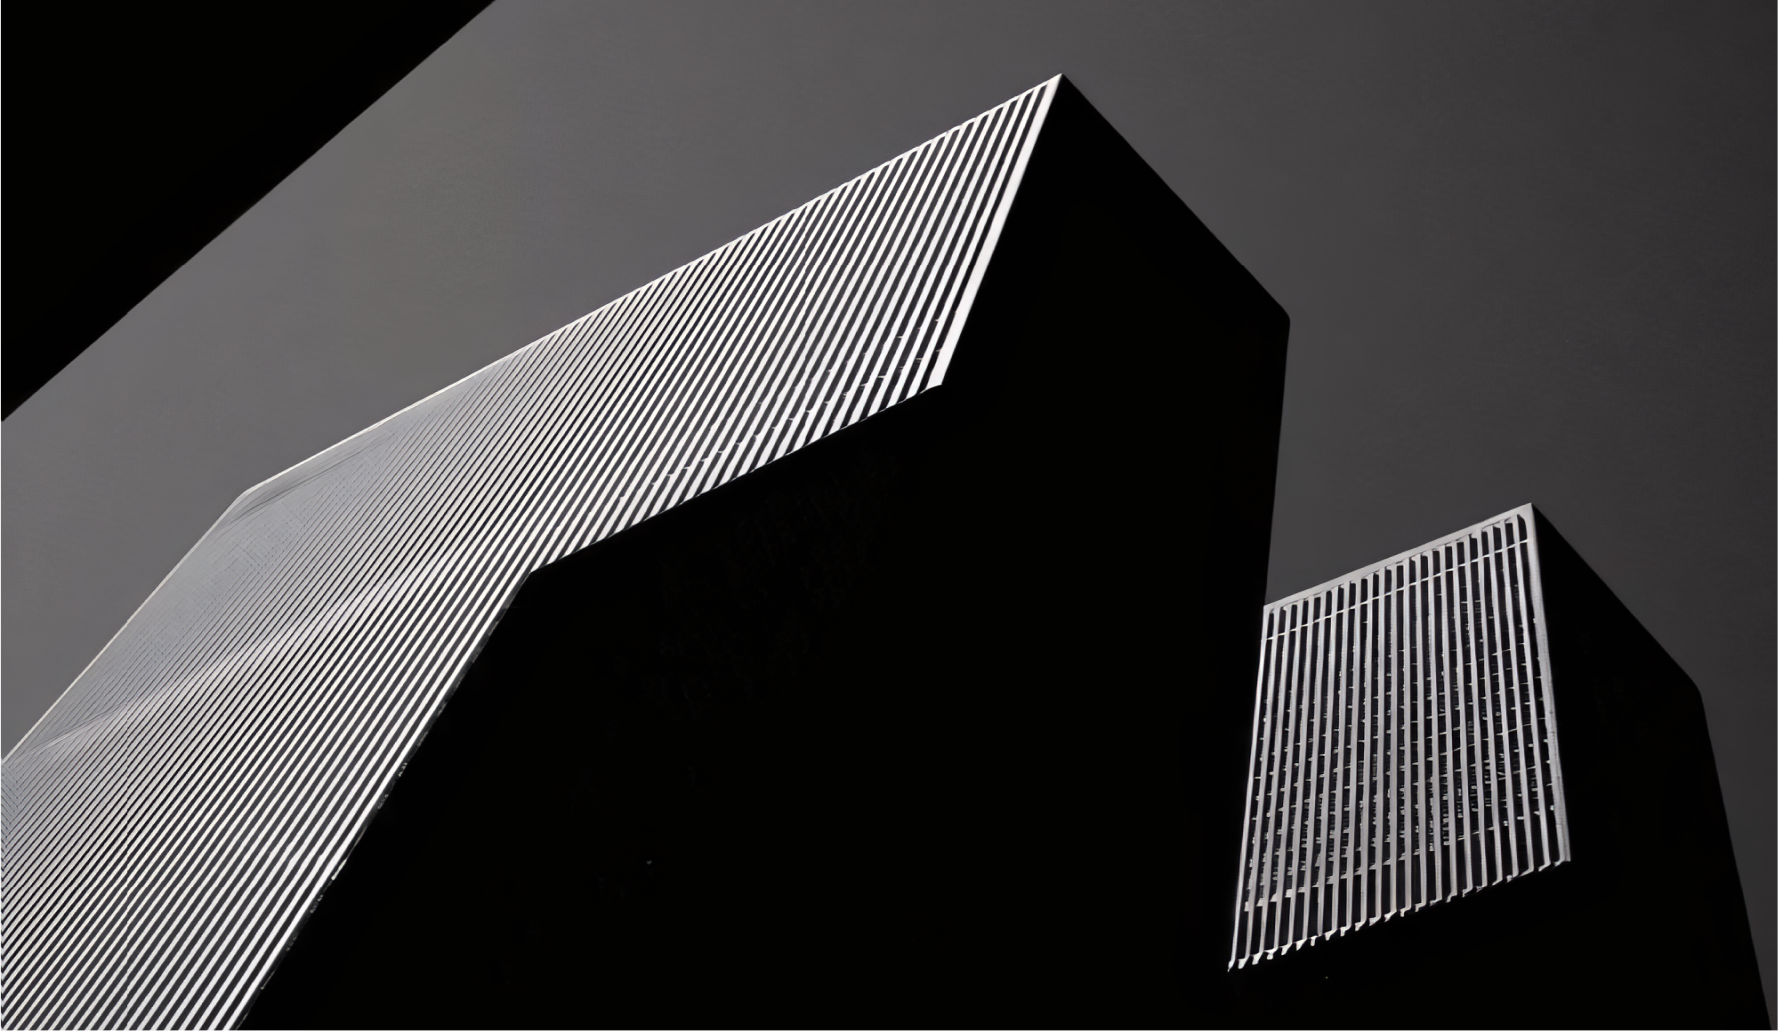
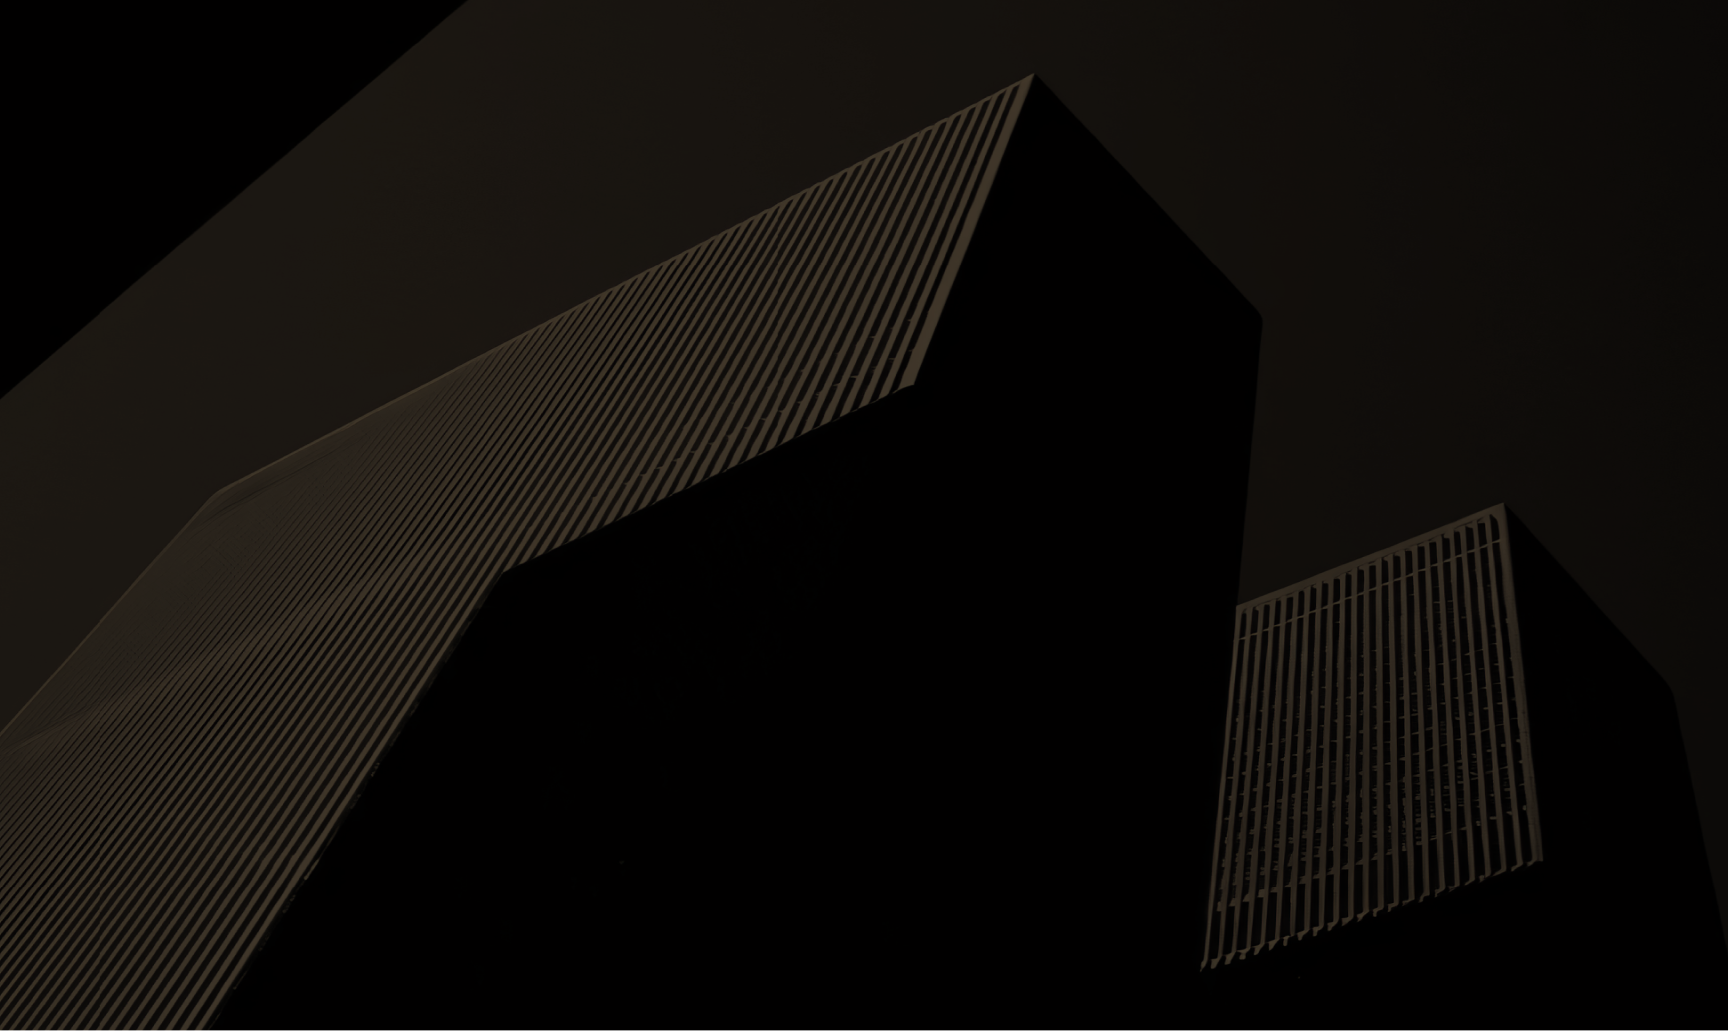
6-16

diff --git a/src/components/website/OurWork.tsx b/src/components/website/OurWork.tsx
@@ -11,6 +11,9 @@ import hajBg from "@/assets/hajbg.png";
 import auctionHammer from "@/assets/auctionHammer.png";
 import auctionHammerBg from "@/assets/auctionHammerbj.jpg";
 import Link from "next/link";
+import image2 from "@/assets/Rectangle2.png";
+import image3 from "@/assets/Rectangle3.png";
+
 type ServiceKey = keyof typeof servicesData;
 
 const servicesData = {
@@ -20,8 +23,9 @@ const servicesData = {
     bg: hajBg,
     content: {
       heading: "ادارة الاملاك",
-      description:
-        "هذا النص هو مثال لنص يمكن أن يستبدل في نفس المساحة، لقد تم توليد هذا النص من مولد النص العربى، حيث يمكنك أن تولد مثل هذا النص أو العديد من النصوص الأخرى إضافة إلى زيادة عدد الحروف التى يولدها التطبيق.",
+      description: `    خدمة إدارة الأملاك هي إحدى خدماتنا الأساسية التي نقدمها لتلبية احتياجات الملاك وضمان تحقيق 
+    أفضل عائد على استثماراتهم العقارية. تتمثل هذه الخدمة في إدارة جميع جوانب الملكية نيابة عن المالك، 
+    بدءًا من إدارة العقار وتشغيله إلى تحقيق أقصى استفادة منه.`,
     },
     path: "/",
   },
@@ -31,8 +35,8 @@ const servicesData = {
     bg: auctionHammerBg,
     content: {
       heading: "تنظيم المزادات",
-      description:
-        "هذا النص هو مثال لنص يمكن أن يستبدل في نفس المساحة، لقد تم توليد هذا النص من مولد النص العربى، حيث يمكنك أن تولد مثل هذا النص أو العديد من النصوص الأخرى إضافة إلى زيادة عدد الحروف التى يولدها التطبيق.",
+      description: `    تعتبــر الشــركة رائــدة فــي مجــال إقامــة وتنظيــم المــزادات العلنيــة والإلكترونيــة علــى مســتوى 
+    المملكـة، عبـر طاقم عمـل لديه خبرة كافيـة.`,
     },
     path: "/auction",
   },
@@ -43,7 +47,7 @@ const servicesData = {
     content: {
       heading: "إدارة وتشغيل الفنادق",
       description:
-        "هذا النص هو مثال لنص يمكن أن يستبدل في نفس المساحة، لقد تم توليد هذا النص من مولد النص العربى، حيث يمكنك أن تولد مثل هذا النص أو العديد من النصوص الأخرى إضافة إلى زيادة عدد الحروف التى يولدها التطبيق.",
+        " فـي إطـار مسـاعيها لتقديـم خدمـات بمعاييـر جـودة عالميـة فـي عالـم الضيافـة وببصمـة تبتكـر للضيـوف  تجربــة ممتعــة، دخلــت «كنــوز مكــة» مجــال إدارة وتشــغيل الفنــادق بثقــة واســتقطبت لذلــك مختصيــن  مهـرة متميزيـن بالخبـرات الأكاديميـة والعملية.",
     },
     path: "/",
   },
@@ -54,17 +58,16 @@ const servicesData = {
     content: {
       heading: "الاستثمار العقاري",
       description:
-        "هذا النص هو مثال لنص يمكن أن يستبدل في نفس المساحة، لقد تم توليد هذا النص من مولد النص العربى، حيث يمكنك أن تولد مثل هذا النص أو العديد من النصوص الأخرى إضافة إلى زيادة عدد الحروف التى يولدها التطبيق.",
+        " بمـا أن القطـاع العقـاري يلعـب دورًا مؤثـرًا فـي البنيـة الأساسـية لاقتصـاد المملكـة العربيـة السـعودية،  وحيــث أن الســاحة العقاريــة تشــهد نمــوا ديناميكيــا أدى لزيــادة الطلــب علــى التمويــل مــن البنــوك والشــركات الممــولة، تعمــل شــركة «كنــوز مكــة» عبــر إدارة متخصصــة فــي الاســتثمار العقــاري وفــق  منهجيـة تتسـم بالشـفافية والمسـؤولية، لتحقيـق قيمـة سـوقية حقيقيـة للعقـار تدعـم المسـتثمرين،  إســهامًا فــي نمــو اســتثماراتهم وتوســيع خياراتهــم وتوفــر لهــم حلــولا وفرصــا اســتثمارية بعائــد  مجــز وتحقيــق متطلباتهــم. وتســاهم الشــركة عبــر تلــك الحلــول فــي تحقيــق رؤيــة المملكــة ٢٠٣٠ بوضــع أساسيــات قطــاع عقــاري  مزدهــر ومدعــوم بمعاييــر جديــدة تواكــب التطــور العمرانــي الــذي تشــهده المملكـة.",
     },
     path: "/",
   },
 };
 
 const OurWork = () => {
-  const [activeContent, setActiveContent] = useState<{
-    heading: string;
-    description: string;
-  } | null>(null);
+  const [activeContent, setActiveContent] = useState(
+    servicesData.pilgrims.content
+  );
 
   const handleMouseEnter = (key: ServiceKey) => {
     setActiveContent(servicesData[key].content);
@@ -75,11 +78,12 @@ const OurWork = () => {
   // };
 
   return (
-    <section
-      style={{ backgroundImage: `url(${bg.src})` }}
-      className="relative bg-cover bg-center flex items-center py-[100px] md:py-20"
-    >
+    <section className="relative bg-cover bg-center flex items-center py-[130px] md:py-20 overflow-hidden">
+      <Image src={image2} alt="Image" className="absolute  left-0 z-10" />
+      <Image src={image3} alt="Image" className="absolute  right-0 z-10" />
+
       <div className="absolute inset-0 bg-[#D8BA8F] opacity-95"></div>
+
       <div className="container mx-auto px-4 relative z-10">
         <div className="grid grid-cols-1 md:grid-cols-2 lg:grid-cols-4 gap-4">
           {Object.entries(servicesData).map(([key, service]) => (
@@ -89,21 +93,39 @@ const OurWork = () => {
               onMouseEnter={() => handleMouseEnter(key as ServiceKey)}
               // onMouseLeave={handleMouseLeave}
               style={{
-                backgroundImage: `linear-gradient(rgba(244, 234, 213, 0.8), rgba(244, 234, 213, 0.8)), url(${service.bg.src})`,
+                backgroundImage: `linear-gradient(to right, ${
+                  activeContent.heading === service.content.heading
+                    ? "rgba(29, 27, 25, 1)"
+                    : "rgba(244, 234, 213, 0.8)"
+                }, ${
+                  activeContent.heading === service.content.heading
+                    ? "rgba(29, 27, 25, 0.7)"
+                    : "rgba(244, 234, 213, 0.8)"
+                }), url(${service.bg.src})`,
               }}
               className="p-6 rounded-lg transition-all duration-300 bg-cover bg-center hover:shadow-lg"
             >
-              <div className="flex flex-col items-center text-center space-y-4">
+              <div className="flex flex-col items-start text-center space-y-4">
                 <div className="w-16 h-16 relative">
                   <Image
                     src={service.image}
                     alt={service.title}
                     fill
                     sizes="(max-width: 768px) 100vw, (max-width: 1200px) 50vw, 33vw"
-                    className="object-contain"
+                    className={`object-contain ${
+                      activeContent.heading === service.content.heading
+                        ? "invert"
+                        : ""
+                    }`}
                   />
                 </div>
-                <h3 className="text-lg font-bold text-[#594830]">
+                <h3
+                  className={`text-lg font-bold text-[#594830] text-right ${
+                    activeContent.heading === service.content.heading
+                      ? "text-white"
+                      : ""
+                  }`}
+                >
                   {service.title}
                 </h3>
               </div>
@@ -124,7 +146,7 @@ const OurWork = () => {
                 <h3 className="text-2xl font-bold text-[#5A4B35]">
                   {activeContent.heading}
                 </h3>
-                <p className="text-[#342D23] text-lg font-bold">
+                <p className="text-[#342D23] text-base font-bold text-center">
                   {activeContent.description}
                 </p>
               </div>

diff --git a/src/components/website/OurVision.tsx b/src/components/website/OurVision.tsx
@@ -1,41 +1,44 @@
 import image2 from "@/assets/image2.png";
+import image3 from "@/assets/Rectangle.png";
+import Image from "next/image";
 
 const OurVision = () => {
   return (
     <section
       style={{ backgroundImage: `url(${image2.src})` }}
-      className="bg-[#F7F3EB] bg-contain bg-left bg-no-repeat"
+      className="bg-[#F5EBD7] bg-contain bg-left bg-no-repeat "
     >
-      <div className="container mx-auto py-20 px-4 md:px-0">
-        <div className="grid grid-cols-1 md:grid-cols-2 gap-4">
-          <div className="flex flex-col gap-2  items-center md:items-start">
-            <h2 className="font-bold text-2xl">رؤيتنـــــا</h2>
-            <p className="font-normal text-lg text-center">
-              أن نحقق أعلى مستويات النجاح والتميز، وأن نكـــــــــون
-              مثــــــــــــــــــــــالاً يحتذى به في مجال تخصصنا
-            </p>
-          </div>
+      <Image src={image3} alt="Image" className="absolute  left-0" />
+      <div className="max-w-5xl mx-auto">
+        <div className="container mx-auto pt-20 pb-10 px-4 md:px-0">
+          <div className="grid grid-cols-1 md:grid-cols-2 gap-24 px-16">
+            <div className="flex flex-col gap-2  items-center md:items-start">
+              <h2 className="font-bold text-2xl">رؤيتنـــــا</h2>
+              <p className="font-normal text-lg text-center md:text-right">
+                أن نحقق أعلى مستويات النجاح والتميز، وأن نكـــــــــون
+                مثــــــــــــــــــــــالاً يحتذى به في مجال تخصصنا
+              </p>
+            </div>
 
-          <div className="flex flex-col gap-2 justify-center items-center md:items-start">
-            <h2 className="font-bold text-2xl">رسالتنا</h2>
-            <p className="font-normal text-lg text-center md:text-right">
-              استثمار تقنياتنا الحديثة وكفاءات ومهارات كوادرنا البشرية لتقديم
-              حلول تناسب جميع المستويات وترتقي لتطلعات العملاء
-            </p>
+            <div className="flex flex-col gap-2 justify-center items-center md:items-start">
+              <h2 className="font-bold text-2xl">رسالتنا</h2>
+              <p className="font-normal text-lg text-center md:text-right">
+                استثمار تقنياتنا الحديثة وكفاءات ومهارات كوادرنا البشرية لتقديم
+                حلول تناسب جميع المستويات وترتقي لتطلعات العملاء
+              </p>
+            </div>
           </div>
         </div>
-      </div>
 
-      <div className="bg-[#D8BA8E] py-10">
-        <div className="container mx-auto py-10 px-4 md:px-0">
-          <div className="flex flex-col md:flex-row justify-center md:justify-start items-center md:items-start gap-4 md:col-span-2">
-            <h2 className="font-bold text-2xl">قيمنا</h2>
-            <div className="flex flex-col md:flex-row items-center justify-between w-full max-w-5xl">
-              <ul className="font-normal text-lg text-center md:text-right">
+        <div className="">
+          <div className="container mx-auto pb-20 px-4 md:px-0">
+            <div className="flex flex-col md:flex-row justify-center md:justify-between items-center md:items-start gap-4 md:col-span-2">
+              <h2 className="font-bold text-2xl">قيمنا</h2>
+              <ul className="font-normal text-lg text-center md:text-right list-disc">
                 <li>توفير بيئة عمل جاذبة للكفاءات تعزيز الابتكار والجودة </li>
                 <li>مواكبة الحاضر ومتابعة ما يستجد على قواعد اللعبة</li>
               </ul>
-              <ul className="font-normal text-lg text-center md:text-right">
+              <ul className="font-normal text-lg text-center md:text-right list-disc">
                 <li>تقديم الصحيح من الأعمال وتجنب الطرق الملتوية</li>
                 <li>تعزيز الابتكار والجودة </li>
               </ul>

diff --git a/src/components/website/HomeContent.tsx b/src/components/website/HomeContent.tsx
@@ -9,21 +9,21 @@ const array = [
   {
     id: 1,
     text: "تلبية احتياجات العملاء بتقديم خدمات عقارية مبتكرة ومدروسة.",
-    image: content1,
+    image: content3,
   },
   {
     id: 2,
-    text: "تقديم خدمات فريدة ومميزة لتحقيق تطلعات العملاء.",
+    text: "استثمار خبرة 13 عاماً في العقارات والفنادق وخدمات المعتمرين.",
     image: content2,
   },
   {
     id: 3,
-    text: "تقديم خدمات فريدة ومميزة لتحقيق تطلعات العملاء.",
-    image: content3,
+    text: "وكيل بيع قضائي ومقيم عقاري معتمد وتوثيق عقود الإيجار.",
+    image: content1,
   },
   {
     id: 4,
-    text: "تقديم خدمات فريدة ومميزة لتحقيق تطلعات العملاء.",
+    text: "شريك استراتيجي متخصص في المحاماة والاستشارات القانونية.",
     image: content4,
   },
 ];
@@ -35,7 +35,7 @@ const HomeContent = () => {
       style={{ backgroundImage: `url(${background.src})` }}
       className="relative h-[100vh] bg-cover bg-center flex items-center flex-col pt-10"
     >
-      <div className="absolute inset-0 bg-black opacity-70"></div>
+      <div className="absolute inset-0"></div>
       <div className="container mx-auto px-4 md:px-0 w-full h-full">
         <div className="z-10 relative w-full h-full flex items-center justify-center flex-col max-w-5xl mx-auto gap-4">
           <h2 className="font-extrabold text-2xl md:text-3xl text-white">
@@ -54,7 +54,7 @@ const HomeContent = () => {
       </div>
 
       <div className="w-full bg-[#D8BA8F52] z-10 px-4 md:px-0 py-10">
-        <div className=" relative w-full h-full flex items-center justify-center flex-col max-w-5xl mx-auto gap-4">
+        <div className=" relative w-full h-full flex items-center justify-center flex-col max-w-6xl mx-auto gap-4">
           <div className="grid grid-cols-1 md:grid-cols-2 gap-4 my-20  max-w-full min-w-full">
             {array.map((item) => (
               <div

diff --git a/src/components/website/Sectors.tsx b/src/components/website/Sectors.tsx
@@ -7,14 +7,12 @@ const Sectors = () => {
       style={{ backgroundImage: `url(${banner.src})` }}
       className="relative bg-cover bg-center flex items-center py-[100px] md:py-6"
     >
-      <div className="absolute inset-0 bg-[#D8BA8F69]"></div>
-
       <div className="z-10 relativecontainer mx-auto px-4 md:px-0 py-20 md:py-[150px]">
         <div className="flex flex-col items-center gap-4">
-          <h2 className="font-bold text-3xl text-black">قطاعات الأعمال</h2>
-          <p className="font-bold text-lg text-center">
+          <h2 className="font-bold text-3xl text-[#D8BA8F]">قطاعات الأعمال</h2>
+          <p className="font-normal text-lg text-center text-white">
             شركة كنوز مكة تعمل في مجموعة متنوعة من قطاعات الأعمال، حيث تقدم
-            خدمات متميزة تلبي احتياجات السوق المختلفة،
+            خدمات متميزة تلبي احتياجات <br /> السوق المختلفة،
           </p>
         </div>
       </div>

diff --git a/src/components/website/ContactForm.tsx b/src/components/website/ContactForm.tsx
@@ -122,7 +122,7 @@ const ContactForm = () => {
           <Button
             type="submit"
             disabled={form.formState.isSubmitting}
-            className="bg-[#D8BA8F] text-white hover:bg-[#D8BA8F] col-span-2"
+            className="bg-[#D8BA8F] text-white hover:bg-[#D8BA8F] col-span-2 w-fit mx-auto px-8 py-6"
           >
             {form.formState.isSubmitting ? (
               <div className="h-5 w-5 animate-spin rounded-full border-b-2 border-white"></div>

diff --git a/src/server/Api.ts b/src/server/Api.ts
@@ -1,6 +1,6 @@
 // const BASE_URL = "https://new-auction-pc.onrender.com/api/v1";
-const BASE_URL = "https://konouz.site-pocket.com/api/v1";
-// const BASE_URL = "http://localhost:8000/api/v1";
+// const BASE_URL = "https://konouz.site-pocket.com/api/v1";
+const BASE_URL = "http://localhost:8000/api/v1";
 const PROJECTS = "/projects";
 const AUCTIONS = "/auctions";
 const PRICES = "/prices";
